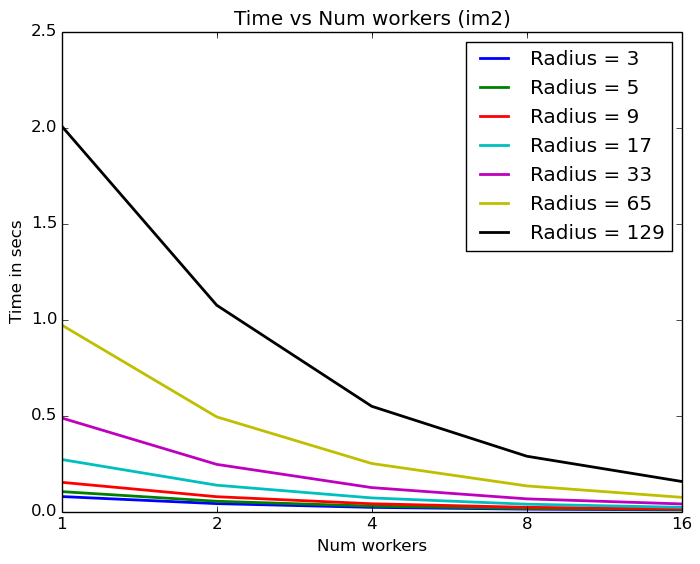
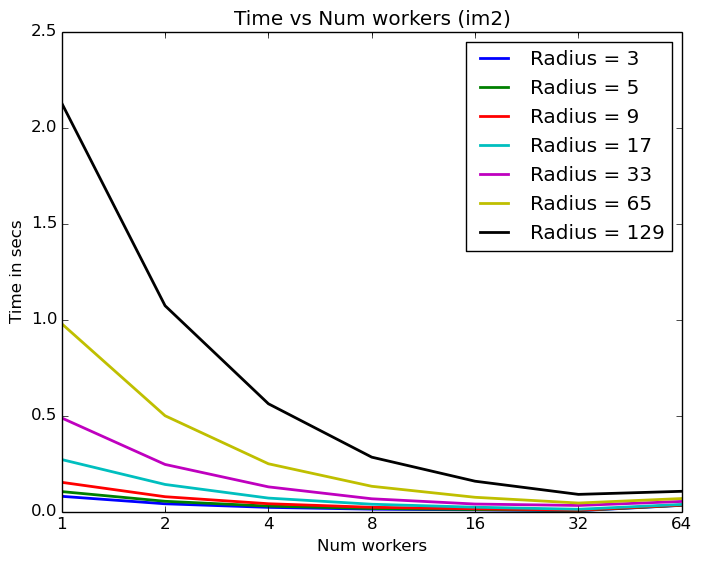
plots

diff --git a/Lab1/filters/eval_thres.py b/Lab1/filters/eval_thres.py
@@ -1,0 +1,69 @@
+import matplotlib
+matplotlib.use('Agg')
+
+import matplotlib.pyplot as plt
+import numpy as np
+
+from subprocess import check_output
+
+# List of images
+images = {"im1", "im2", "im3", "im4"}
+
+num_jobs = range(0, 7)  #7
+num_jobs = [2**i for i in num_jobs]
+
+
+for img in images:
+	time_all = np.zeros((len(num_jobs), 1))
+
+	for n_id, n in enumerate(num_jobs, 0):
+		cmd_to_run = "mpirun -n " + str(n) + " ./thres ../" + img + ".ppm ../" + img + "_out_thres.ppm"
+
+		program_out = check_output(cmd_to_run, shell=True)
+
+		# Find the time
+		tmp = program_out.split("Average filtering time: ")[1]
+		run_time = tmp.split(" secs\n")[0]
+		run_time = float(run_time)
+
+		time_all[n_id, 0] = run_time
+
+	# plot
+	plt.plot(num_jobs, time_all[:, 0], linewidth=2.0)
+
+	plt.ylabel('Time in secs')
+	plt.xlabel('Num workers')
+	plt.xscale('log', basex=2)
+	
+	xi = [2**n for n in range(0, len(num_jobs))]
+	plt.xticks(num_jobs, xi)
+	plt.title('Time vs Num workers ('+img+')')
+
+	plt.savefig('plots_thres/'+img+'_plot.png', bbox_inches='tight')
+	plt.close()
+
+	# Plot speedup
+	speedup = time_all / time_all[0,0]
+	speedup = 1 / speedup
+
+	plt.plot(num_jobs, speedup[:, 0], linewidth=2.0)
+
+	plt.ylabel('Speedup')
+	plt.xlabel('Num workers')
+	plt.xscale('log', basex=2)
+	plt.yscale('log', basey=2)
+	
+	xi = [2**n for n in range(0, len(num_jobs))]
+	plt.xticks(num_jobs, xi)
+
+	plt.yticks(num_jobs, xi)
+
+	plt.title('Speedup vs Num workers ('+img+')')
+
+	plt.legend(loc='best')
+
+	plt.savefig('plots_thres/'+img+'_plot_speedup.png', bbox_inches='tight')
+	plt.close()
+
+
+

diff --git a/Lab1/filters/eval_blur.py b/Lab1/filters/eval_blur.py
@@ -9,7 +9,7 @@ from subprocess import check_output
 # List of images
 images = {"im1", "im2", "im3", "im4"}
 
-num_jobs = range(0, 5)  #7
+num_jobs = range(0, 7)  #7
 num_jobs = [2**i for i in num_jobs]
 
 filter_rad = range(1,8)  #8
@@ -20,7 +20,7 @@ for img in images:
 
 	for n_id, n in enumerate(num_jobs, 0):
 		for r_id, r in enumerate(filter_rad, 0):			
-			cmd_to_run = "mpirun -n " + str(n) + " ./blur " + str(r) + " ../" + img + ".ppm ../" + img + "_out.ppm"
+			cmd_to_run = "mpirun -n " + str(n) + " ./blur " + str(r) + " ../" + img + ".ppm ../" + img + "_out_blur.ppm"
 
 			program_out = check_output(cmd_to_run, shell=True)
 
@@ -44,7 +44,7 @@ for img in images:
 	plt.xticks(num_jobs, xi)
 	plt.title('Time vs Num workers ('+img+')')
 
-	plt.legend()
+	plt.legend(loc='best')
 
 	plt.savefig('plots_blur/'+img+'_plot.png', bbox_inches='tight')
 	plt.close()
@@ -64,9 +64,12 @@ for img in images:
 	
 	xi = [2**n for n in range(0, len(num_jobs))]
 	plt.xticks(num_jobs, xi)
+
+	plt.yticks(num_jobs, xi)
+
 	plt.title('Speedup vs Num workers ('+img+')')
 
-	plt.legend()
+	plt.legend(loc='best')
 
 	plt.savefig('plots_blur/'+img+'_plot_speedup.png', bbox_inches='tight')
 	plt.close()
